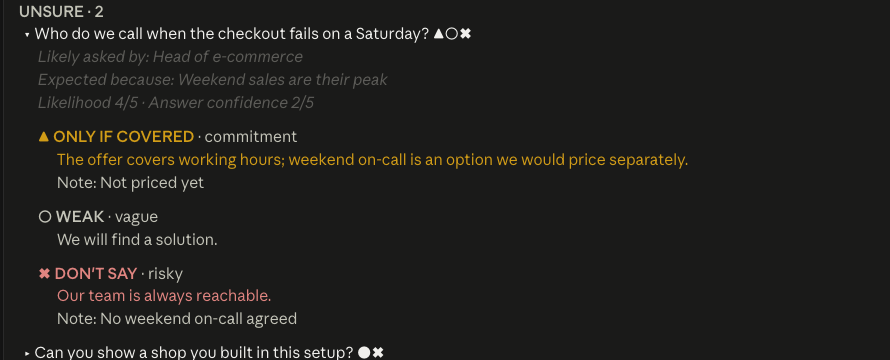
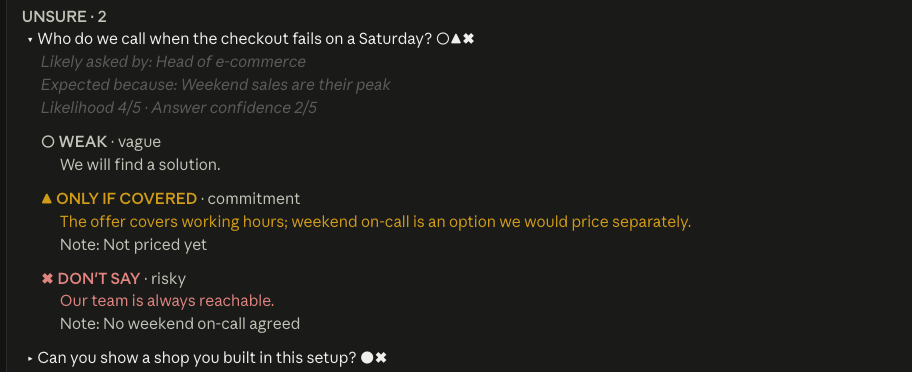
README: screenshots of 0.11.1
Overview, answer risks, live and held live list retaken with the
fictional Acme pitch: SAFE TO SAY · MY RECENT WORK, answers safest
first, separate Open all and Close all. Alt texts follow.

diff --git a/README.md b/README.md
@@ -15,21 +15,21 @@ Every answer carries its risk as a mark, a word and a colour, safest first:
 
 ## What it looks like
 
-A pitch prepared: questions grouped by how surely they can be answered, each with its risk marks. An opened question says who is likely to ask, why, who answers on our side, and offers answers by risk, with their sources:
+A pitch prepared: what you worked on last as safe to say, then questions grouped by how surely they can be answered, each with its risk marks. An opened question says who is likely to ask, why, who answers on our side, and offers answers by risk, with their sources:
 
-![The Great Question panel: questions grouped by answer confidence, one opened with a sourced answer and a warning what not to say](docs/overview.png)
+![The Great Question panel: safe to say from my recent work, questions grouped by answer confidence, one opened with a sourced answer and a warning what not to say](docs/overview.png)
 
-Where the documents give no firm answer, the panel says what you may promise only if it is covered, what is harmless but shallow, and what to leave out:
+Where the documents give no firm answer, the panel offers, safest first, what is harmless but shallow, what you may promise only if it is covered, and what to leave out:
 
-![An unsure question with three kinds of answer: only if covered, weak, don't say](docs/answer-risks.png)
+![An unsure question with three kinds of answer: weak, only if covered, don't say](docs/answer-risks.png)
 
-Listening along: the question just asked moves to **ASKED NOW** with answers by risk, and the next likely questions appear below, each with its best answer in one line:
+Listening along: the question just asked moves to **ASKED NOW** with answers by risk, your recent work stays on show as safe to say, and the next likely questions appear below, each with its safest answer in one line:
 
-![Listening: the question asked now with its answers and five likely next questions](docs/live.png)
+![Listening: the question asked now with its answers, my recent work, three likely next questions and the question asked but not prepared](docs/live.png)
 
 While a question is open, new ones wait behind a button instead of moving the list:
 
-![A held live list: the question asked now and a button to take four new questions](docs/live-hold.png)
+![A held live list: the question asked now, my recent work and a button to take two new questions](docs/live-hold.png)
 
 *Screenshots show a fictional pitch for a fictional company; no real meeting was recorded.*
 
